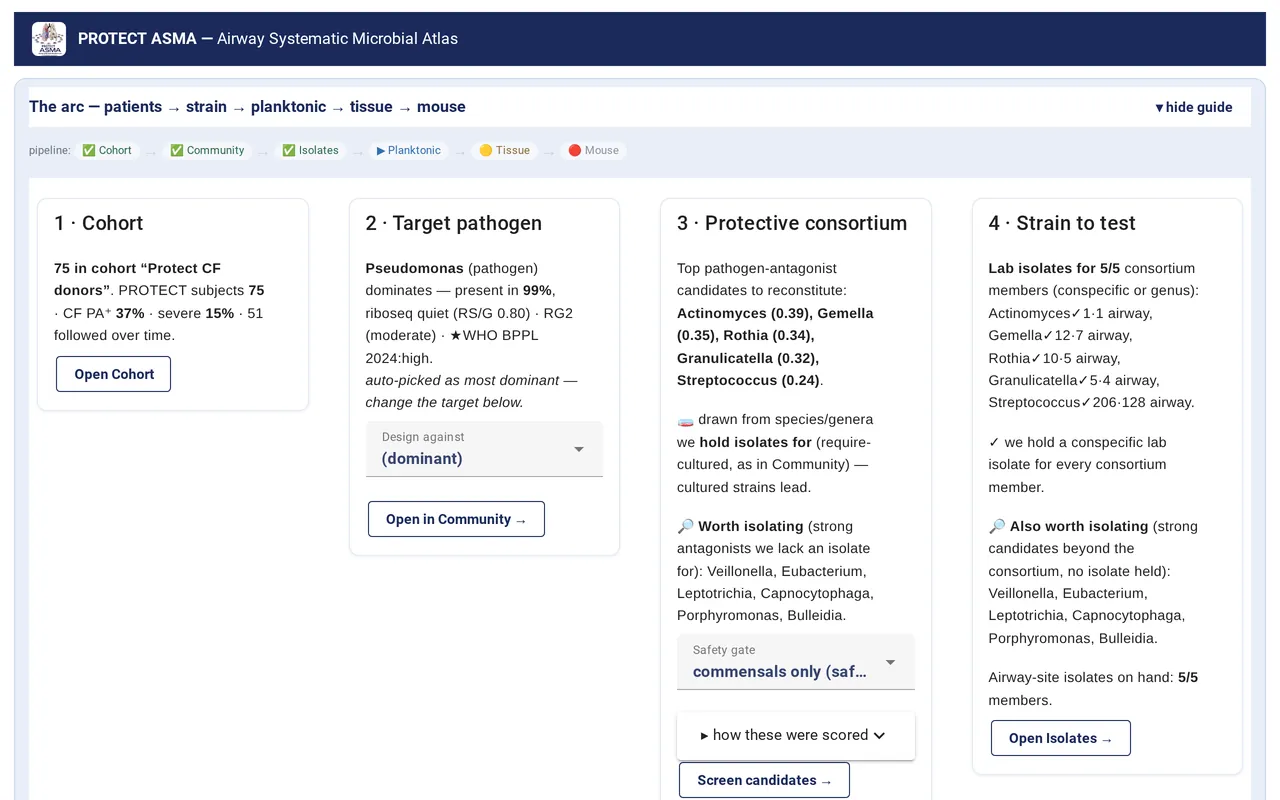
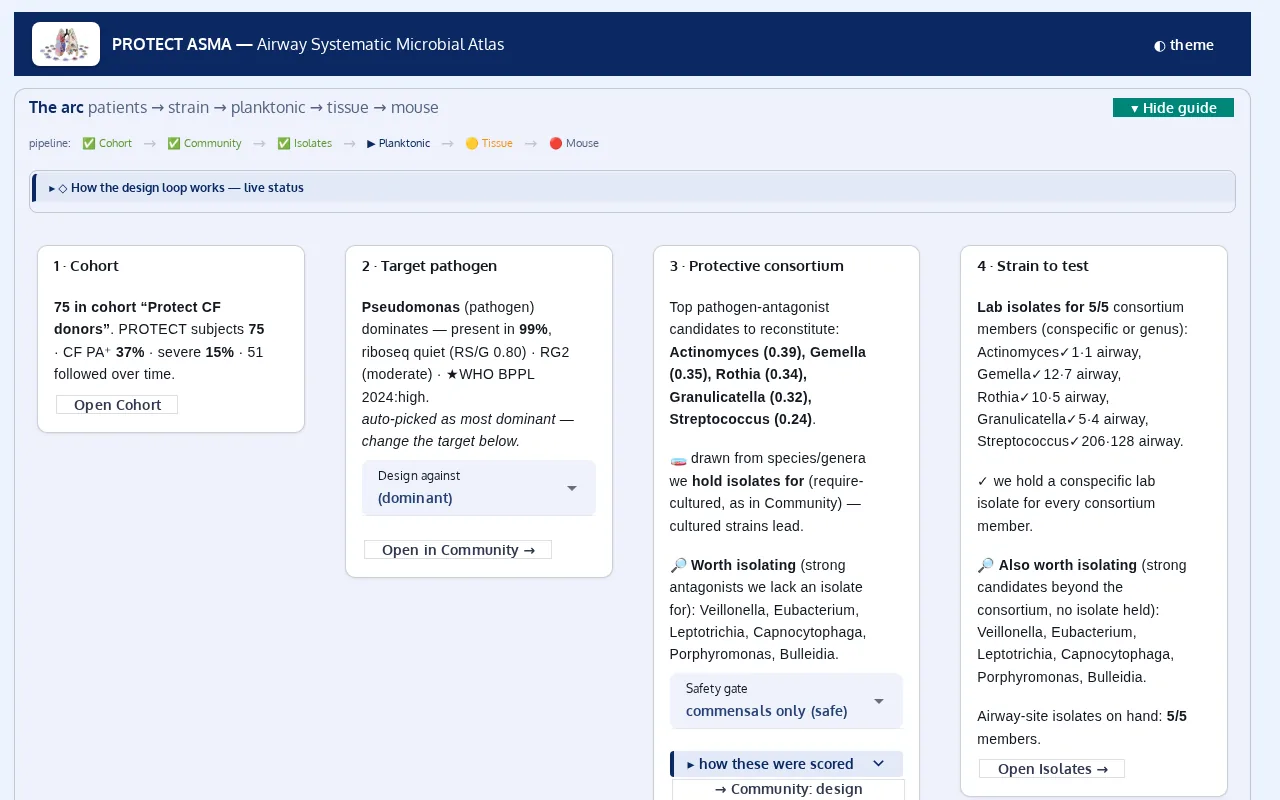
Two gate passwords arrived: Strata's printed v0.5.0 confirmed, both rethumbed
ENIGMA Strata prints v0.5.0 inside its gate — the deployed version, not a
tag guess — and ASMA prints none, so its newest-tag comment now says that
from behind the gate. Thumbnails recaptured on the post-gate views:
Strata's Welcome tab, ASMA's arc walk with the guide reopened (the app
now hides it by default). Phagecast's shared password was rejected, so
its card and thumbnail stand as before.

Changed region(s): [[0.0, 0.0, 1.0, 1.0]]

diff --git a/src/routes/portals.tsx b/src/routes/portals.tsx
@@ -336,8 +336,7 @@ const DECLARED: readonly Portal[] = [
       'Web of Microbes',
       'NOAA GHCN-Daily',
     ],
-    // The deployed portal sits behind a team-password gate (2026-09), so its
-    // printed version is unreadable from outside; this is the newest tag.
+    // Behind a team-password gate (2026-09); the portal prints this inside it.
     version: 'v0.5.0',
     updated: '2026-08-31',
   },
@@ -410,8 +409,8 @@ const DECLARED: readonly Portal[] = [
       'KEGG BRITE',
       'ModelSEED Biochemistry',
     ],
-    // The deployed portal sits behind a team-password gate (2026-09), so its
-    // printed version is unreadable from outside; this is the newest tag.
+    // Behind a team-password gate (2026-09); inside it the portal prints no
+    // version, so this is the newest tag.
     version: 'v0.3.0',
     updated: '2026-09-07',
   },
